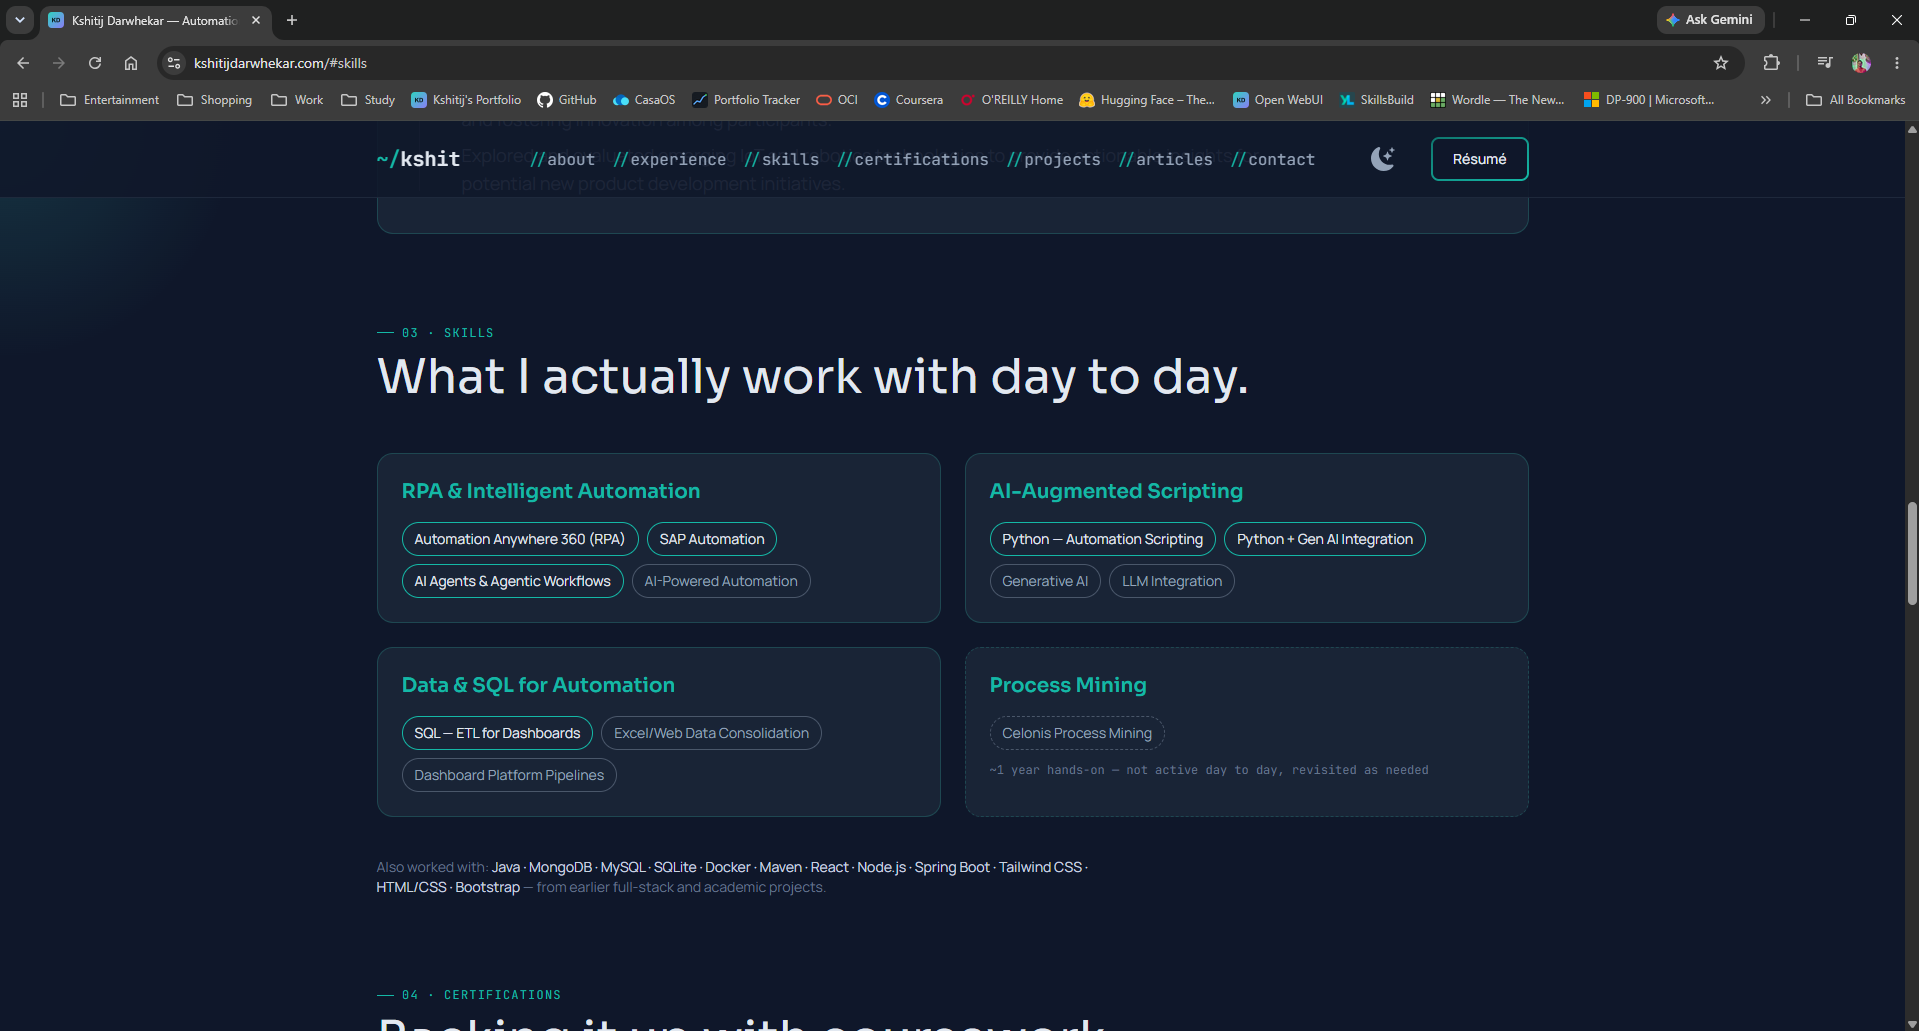
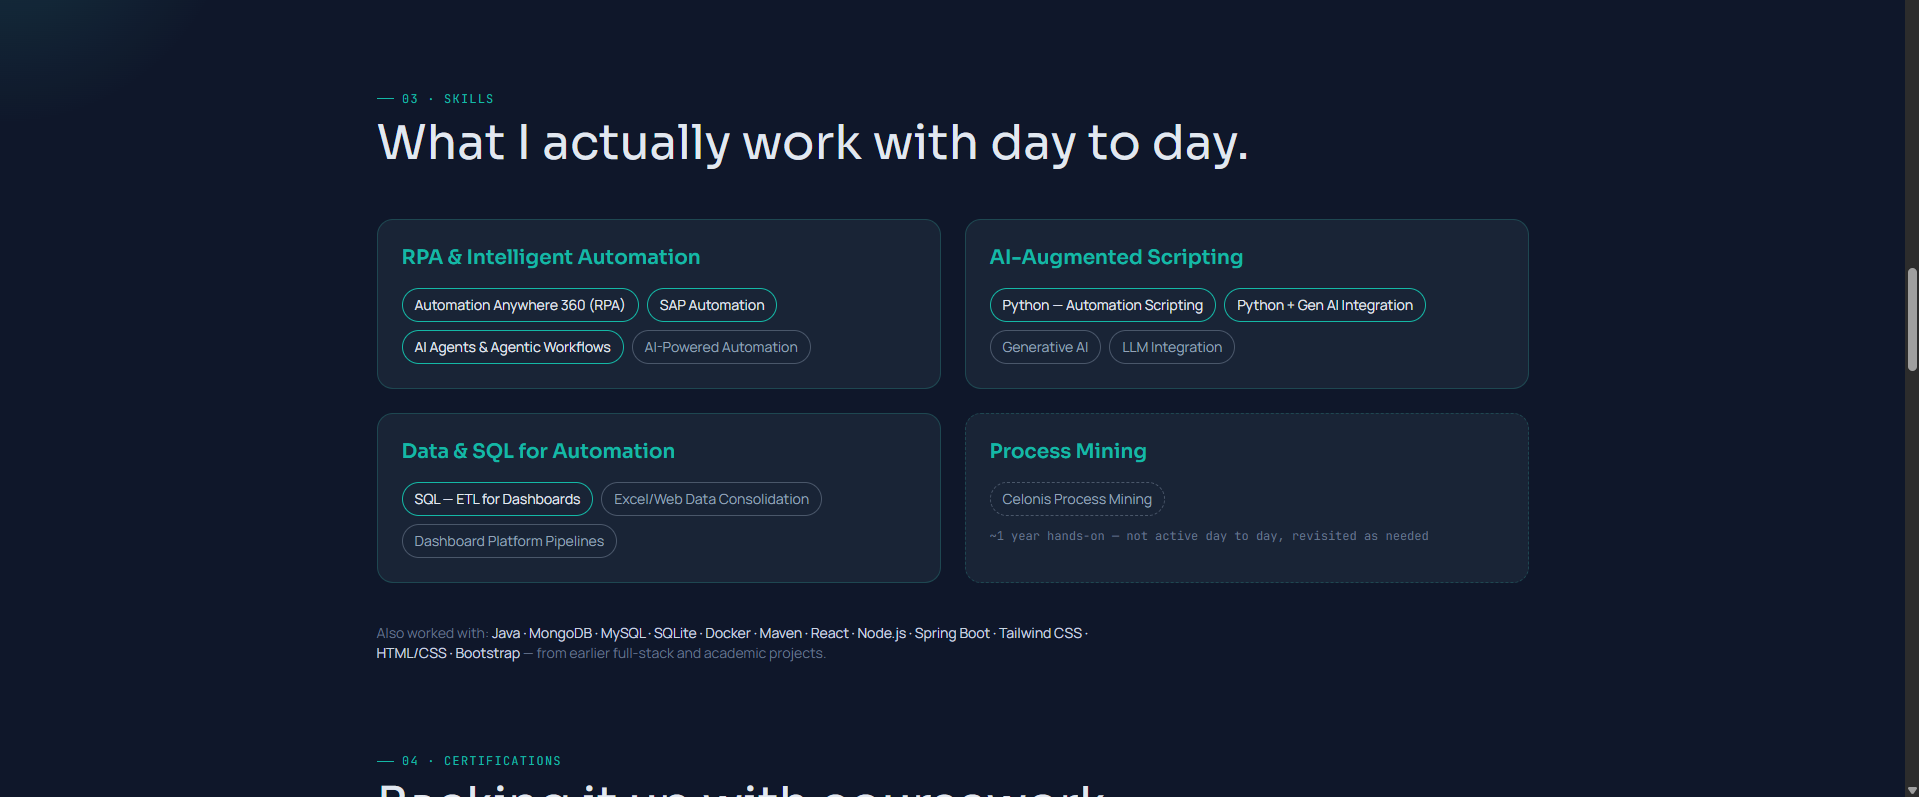
Fix Skills screenshot crop, update README blog link
- skills.png: my earlier crop pass wrongly left this one at top:0,
  assuming no chrome. It actually had both leftover browser chrome
  AND a sticky-nav-overlapping-ghosted-scroll-content artifact
  (visible faded text from further down the page bleeding through
  the nav bar's semi-transparent background). Found the real content
  boundary by scanning pixel data - the ghosted overlay box ends at
  y=108, where it drops to the clean page background - and recropped
  from there, matching the clean style of the rest of the gallery.
- README blog link updated to the specific "Introduction" post
  (https://medium.com/@kshitijdarwhekar/introduction-626e131561ee)
  per request, restoring what the original V1 README actually linked
  to - my rewrite had simplified it down to the bare profile URL.

diff --git a/README.md b/README.md
@@ -3,7 +3,7 @@
 My personal portfolio — built with Next.js and Tailwind CSS, showcasing my experience in RPA/automation and Agentic AI, projects, certifications, and a live feed of my Medium articles.
 
 - 🌐 **Live site:** https://kshitijdarwhekar.com
-- 📝 **Blog:** https://medium.com/@kshitijdarwhekar
+- 📝 **Blog:** https://medium.com/@kshitijdarwhekar/introduction-626e131561ee?sharedUserId=kshitijdarwhekar
 
 ## Table of Contents
 
